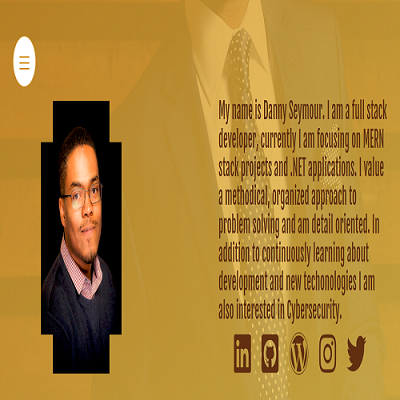
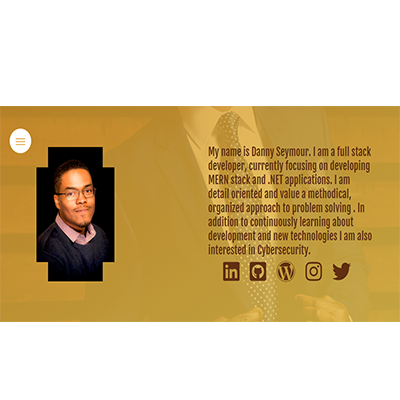
update snippet images for front page

diff --git a/index.html b/index.html
@@ -219,7 +219,7 @@
                         </div>
                         <div class="hpanel__content">
                             <div class="hpanel__content-card hpanel__media-box">
-                                <img class="hpanel__img" src="https://via.placeholder.com/400" alt="">
+                                <img class="hpanel__img" src="./img/snip-mernskel.png" alt="">
                                 <!--
                                         <video class="hpanel__video" autoplay muted loop>
                                                 <source src="img/devconnector/video.mp4" type="video/mp4">
